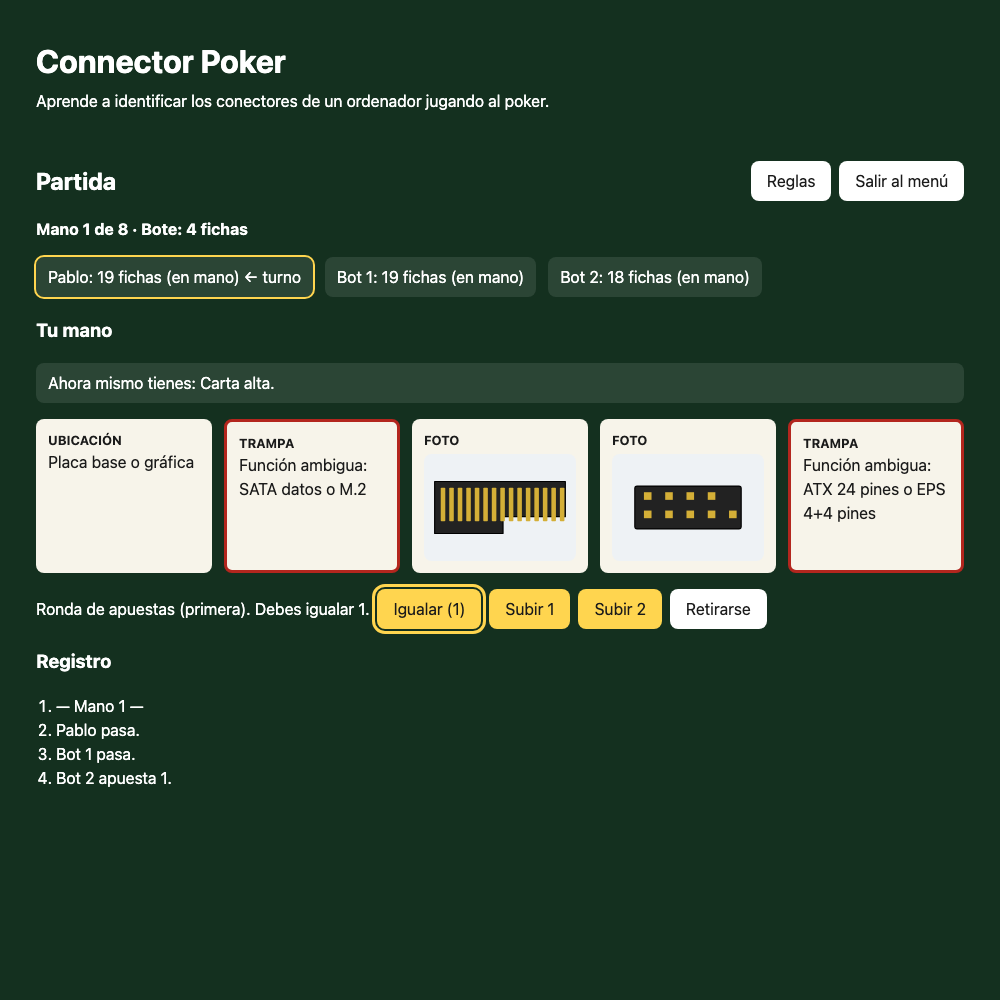
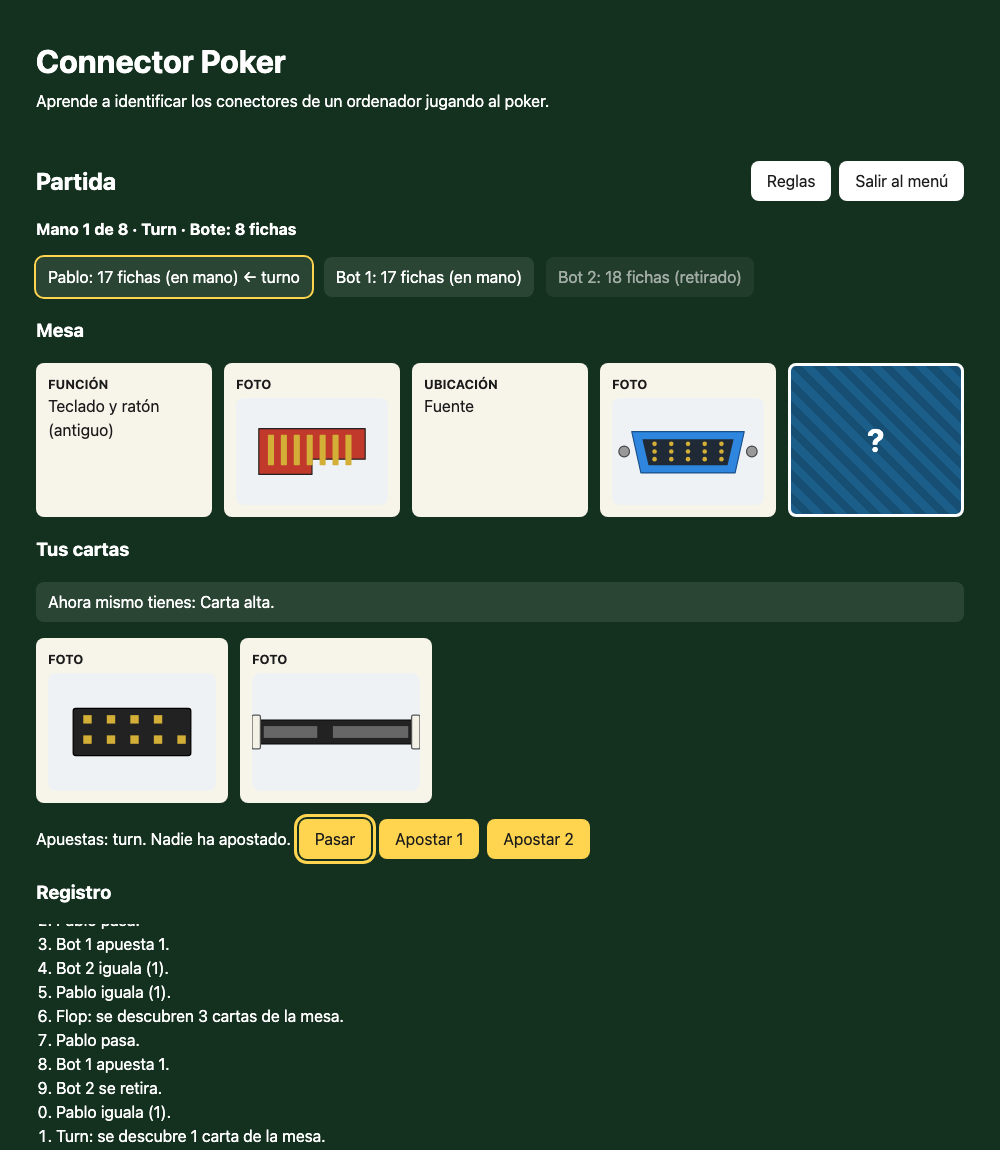
Actualiza CLAUDE.md, README y capturas a las reglas de Hold'em

diff --git a/README.md b/README.md
@@ -16,7 +16,7 @@
 
 ## ¿Qué es?
 
-**Connector Poker** es un juego educativo para aprender a identificar los **10 conectores internos y los 10 externos** de un ordenador: cómo se llaman, para qué sirven y dónde van. Se juega una partida de unos 10 minutos contra 2 bots.
+**Connector Poker** es un juego educativo para aprender a identificar los **10 conectores internos y los 10 externos** de un ordenador: cómo se llaman, para qué sirven y dónde van. Se juega una partida de unos 10 minutos contra 2 bots, al estilo **Texas Hold'em**.
 
 Es un proyecto en grupo del módulo **Sistemas Informáticos** (DAM, 1.º, IES La Vereda). El enunciado pedía un juego de diseño propio (Kahoot no valía) cuya mecánica obligara a **pensar**, no solo a memorizar nombres.
 
@@ -25,16 +25,21 @@ Es un proyecto en grupo del módulo **Sistemas Informáticos** (DAM, 1.º, IES L
 Cada conector tiene **4 cartas**: una **Foto**, un **Nombre**, una **Función** y una **Ubicación**. Una mano de poker se forma agrupando cartas *del mismo conector, sea cual sea su tipo*: la foto del HDMI y la función "Vídeo y audio digital" son una pareja, aunque no se parezcan en nada.
 
 <div align="center">
-<img src="docs/img/juego.png" alt="Una mano en juego con dos cartas Trampa" width="520">
+<img src="docs/img/juego.png" alt="Una mano en el turn: 4 cartas descubiertas en la mesa y 2 cartas propias" width="520">
 </div>
 
 **Una mano, paso a paso**
 
-1. Todos pagan 1 ficha de ante y reciben 5 cartas (empiezas con 20 fichas).
-2. **Primera ronda de apuestas:** pasar, apostar (1 o 2 fichas), igualar o retirarse. Una sola subida por jugador y ronda.
-3. **Cambio de cartas:** hasta 3 cartas por otras del mazo.
-4. **Segunda ronda de apuestas.**
-5. **Showdown con reto:** gana la mejor mano, pero antes de cobrar tiene que **demostrar que sabe lo que tiene**.
+Como en el Texas Hold'em, tienes **2 cartas propias** y hay **5 cartas comunes** en la mesa que se van descubriendo. Tu mano es la **mejor combinación de 5 cartas entre las 7**: una carta de la mesa puede formar pareja con una tuya, y también puede ayudar a tus rivales.
+
+1. Todos pagan 1 ficha de ante y reciben 2 cartas (empiezas con 20 fichas).
+2. **Antes del flop:** primera ronda de apuestas, solo con tus 2 cartas.
+3. **Flop:** se descubren 3 cartas de la mesa. Otra ronda de apuestas.
+4. **Turn:** se descubre la 4.ª carta. Otra ronda.
+5. **River:** se descubre la 5.ª carta. Última ronda.
+6. **Showdown con reto:** gana la mejor mano, pero antes de cobrar tiene que **demostrar que sabe lo que tiene**.
+
+En cada ronda puedes pasar, apostar (1 o 2 fichas), igualar o retirarte, con una sola subida por jugador y ronda.
 
 ### El reto del showdown: la mecánica propia del juego
 
@@ -138,10 +143,10 @@ flowchart LR
 | Módulo | Qué hace |
 |---|---|
 | [`deck.js`](js/deck.js) | Construye la baraja de 90 cartas (80 de conector, 6 Trampa, 2 comodines USB, 2 Anti-error), baraja y reparte. |
-| [`hands.js`](js/hands.js) | `evaluateHand(cartas)` calcula el rango, los desempates y qué carta especial cuenta. `compareHands` decide quién gana. |
+| [`hands.js`](js/hands.js) | `evaluateHand` calcula el rango, los desempates y qué carta especial cuenta en 5 cartas. `bestHand` encuentra la mejor mano de 5 entre las 7 disponibles. `compareHands` decide quién gana. |
 | [`showdown.js`](js/showdown.js) | Genera los retos de 3 opciones (con distractores de conectores parecidos) y los corrige. |
-| [`bots.js`](js/bots.js) | IA sencilla: apuestan según el rango de su mano, conservan sus grupos al cambiar cartas y superan el reto con probabilidad configurable (0,8). |
-| [`game.js`](js/game.js) | Máquina de estados de la partida: apuestas, cambio de cartas, showdown, fichas y fin de partida. |
+| [`bots.js`](js/bots.js) | IA sencilla: apuestan según el rango de su mejor mano y la ronda (antes del flop casi nunca se retiran) y superan el reto con probabilidad configurable (0,8). |
+| [`game.js`](js/game.js) | Máquina de estados de la partida: rondas de apuestas, mesa, showdown, fichas y fin de partida. |
 | [`ranking.js`](js/ranking.js) | Ranking de las 10 mejores partidas en `localStorage`. |
 | [`main.js`](js/main.js) | Pantallas, eventos y conexión con el DOM. Es la única parte que toca la página. |
 
@@ -149,23 +154,26 @@ Una mano es una máquina de estados:
 
 ```mermaid
 stateDiagram-v2
-    [*] --> Apuestas1
-    Apuestas1 --> Cambio: todos han actuado
-    Cambio --> Apuestas2
-    Apuestas2 --> Showdown: todos han actuado
-    Apuestas1 --> FinDeMano: todos se retiran menos uno
-    Apuestas2 --> FinDeMano: todos se retiran menos uno
+    [*] --> AntesDelFlop
+    AntesDelFlop --> Flop: todos han actuado
+    Flop --> Turn: todos han actuado
+    Turn --> River: todos han actuado
+    River --> Showdown: todos han actuado
+    AntesDelFlop --> FinDeMano: todos se retiran menos uno
+    Flop --> FinDeMano: todos se retiran menos uno
+    Turn --> FinDeMano: todos se retiran menos uno
+    River --> FinDeMano: todos se retiran menos uno
     Showdown --> Reto: le toca al humano
     Reto --> Showdown: respuesta corregida
     Showdown --> FinDeMano: alguien supera el reto o nadie lo supera
-    FinDeMano --> Apuestas1: siguiente mano
+    FinDeMano --> AntesDelFlop: siguiente mano
     FinDeMano --> [*]: 8 manos o sin fichas
 ```
 
 ### Decisiones de diseño que merece la pena contar
 
 - **Lógica pura e inyectable.** `deck.js`, `hands.js`, `showdown.js`, `bots.js` y `game.js` no tocan el DOM, y el azar (`rng`) se pasa como parámetro. Así los tests son deterministas y se pueden simular partidas enteras.
-- **Las cartas especiales se evalúan probando todas las sustituciones.** `evaluateHand` prueba cada forma legal de usar la Trampa o un comodín y se queda con la mejor. Solo la usa si **sube el rango**: no tiene sentido obligar a justificar una carta para ganar un simple desempate.
+- **La mejor mano de 7 cartas.** `bestHand` prueba las 21 combinaciones de 5 cartas, y `evaluateHand` prueba cada forma legal de usar la Trampa o un comodín. Una carta especial solo se usa si **sube el rango**: no tiene sentido obligar a justificar una carta para ganar un simple desempate. A igualdad, se prefiere la combinación que no la usa.
 - **Un grupo nunca pasa de 4 cartas.** Un comodín solo puede ocupar un tipo (Foto, Nombre, Función, Ubicación) que el conector aún no tenga.
 - **Apuestas que siempre se pueden igualar.** Ninguna apuesta supera las fichas que le quedan a otro jugador, así que no hacen falta botes laterales.
 - **Imágenes propias en SVG.** Las 20 ilustraciones están dibujadas a mano en código, con las formas anti-error reales (la L del SATA, la muesca del M.2, la esquina cortada del DisplayPort…). Pesan pocos KB y no hay problemas de licencia.
@@ -173,12 +181,12 @@ stateDiagram-v2
 
 ### Tests
 
-**62 tests** con `node --test` que cubren:
+**70 tests** con `node --test` que cubren:
 
-- Los 7 rangos, los desempates, la Trampa y los comodines.
+- Los 7 rangos, los desempates, la Trampa y los comodines, y la mejor mano entre 7 cartas.
 - La composición de la baraja.
 - Las preguntas de los retos y su corrección.
-- El motor de la partida: apuestas, retiradas, empates, penalización y bote acumulado.
+- El motor de la partida: apuestas, rondas de la mesa, retiradas, empates, penalización y bote acumulado.
 - El ranking, incluido el caso de que `localStorage` esté bloqueado.
 - Una **simulación de 200 partidas completas** que comprueba en cada paso que las fichas se conservan y que ninguna partida se queda atascada.
 

diff --git a/CLAUDE.md b/CLAUDE.md
@@ -149,14 +149,23 @@ connector-poker/
 - **6 cartas Trampa:** función ambigua que encaja con dos conectores parecidos. Pares: HDMI/DisplayPort, VGA/DVI, USB-A/USB-C, SATA datos/M.2, ATX 24/EPS 4+4, PCIe 6+2/EPS 4+4.
 - **2 comodines USB** y **2 comodines Anti-error**.
 
-### Desarrollo de una mano
+### Desarrollo de una mano (estilo Texas Hold'em)
+
+Cada jugador tiene **2 cartas propias** y hay **5 cartas comunes** en la mesa, que se descubren por rondas. La mano de cada jugador es la **mejor combinación de 5 cartas entre sus 7** (2 propias + 5 de la mesa). No hay cambio de cartas.
 
 1. Cada jugador empieza con 20 fichas y paga 1 de ante al bote.
-2. Se reparten 5 cartas a cada jugador.
-3. Primera ronda de apuestas: pasar, apostar (máximo 2 fichas), igualar o retirarse. Máximo una subida por jugador y ronda.
-4. Cada jugador puede cambiar hasta 3 cartas con el mazo.
-5. Segunda ronda de apuestas.
-6. Showdown con justificación (ver más abajo). Quien gana se lleva el bote.
+2. Se reparten 2 cartas a cada jugador.
+3. **Antes del flop:** ronda de apuestas con solo las 2 cartas propias.
+4. **Flop:** se descubren 3 cartas de la mesa. Ronda de apuestas.
+5. **Turn:** se descubre la 4.ª carta. Ronda de apuestas.
+6. **River:** se descubre la 5.ª carta. Última ronda de apuestas.
+7. Showdown con justificación (ver más abajo). Quien gana se lleva el bote.
+
+En cada ronda de apuestas: pasar, apostar (1 o 2 fichas), igualar o retirarse. Máximo una subida por jugador y ronda. Ninguna apuesta puede superar las fichas que le quedan a otro jugador (así nunca hacen falta botes laterales). Si todos se retiran menos uno, ese jugador gana el bote sin showdown ni reto.
+
+### Duración de la partida
+
+La partida dura **8 manos** como máximo, o hasta que algún jugador se queda sin fichas. El resultado (fichas finales del jugador humano) se guarda en el ranking local.
 
 ### Ranking de manos (de menor a mayor)
 
@@ -181,13 +190,14 @@ Gana el rango más alto. Si empatan, se compara el `id` del conector del grupo p
 - **Trampa:** cuenta como carta de **Función** de cualquiera de los dos conectores de su par. Para que cuente en el showdown hay que explicar la diferencia entre ambos conectores.
 - **Comodín USB:** sustituye a cualquier carta de USB-A o USB-C. Para usarlo hay que decir la velocidad de la versión de USB que se pregunte.
 - **Comodín Anti-error:** sustituye a cualquier carta de un conector interno (ids 1 a 10). Para usarlo hay que explicar su característica anti-error.
-- Máximo **una** carta especial cuenta por mano. Las demás se tratan como cartas sin valor.
+- Máximo **una** carta especial cuenta por mano, y solo si **sube el rango** de la mano (no se usa para ganar un simple desempate). Las demás se tratan como cartas sin valor. Un comodín solo puede ocupar un tipo de carta (Foto, Nombre, Función o Ubicación) que ese conector aún no tenga en la mano: un grupo nunca pasa de 4.
 
 ### Showdown con justificación
 
 Quien tiene la mejor mano debe superar un reto antes de cobrar:
 
-- **Digital:** 2 preguntas tipo test (3 opciones) sobre los conectores de su combinación. Ejemplos: "¿Cuál es la función de X?", "¿Dónde va X?". Los distractores se sacan de conectores parecidos (mismo tipo o misma ubicación). Si usa una carta especial, se pregunta la diferencia entre los dos conectores, la velocidad USB o la característica anti-error.
+- **Digital:** 2 preguntas tipo test (3 opciones) sobre los conectores de su combinación: la función y la ubicación del conector principal (en doble pareja y full, la segunda pregunta es sobre el segundo grupo). Los distractores se sacan de conectores parecidos (mismo tipo o misma ubicación). Si usa una carta especial se añade una **tercera pregunta**: la diferencia entre los dos conectores (Trampa), la velocidad USB o la característica anti-error. Hay que acertar todas.
+- **Empates:** si varios jugadores empatan en la mejor mano, cada uno hace su reto y los que lo superan se reparten el bote.
 - **Si falla:** pierde 2 fichas (van al bote) y el reto pasa al siguiente mejor jugador. Si nadie lo supera, el bote se acumula a la mano siguiente.
 - **Bots:** superan el reto con probabilidad configurable (por defecto 0,8).
 
@@ -197,7 +207,7 @@ Entregar siempre algo que funcione. No empezar una fase sin cerrar la anterior.
 
 1. **Fase 0, base:** repositorio, `index.html`, `data/conectores.json` con los 20 conectores y fotos libres con `CREDITS.md` (autor, licencia, URL).
 2. **Fase 1, lógica:** `deck.js` y `hands.js` con tests. Cubrir los 7 rangos, desempates, Trampa y comodines. Modo práctica: se reparten 5 cartas y se muestra qué mano forman.
-3. **Fase 2, partida:** `game.js`, apuestas, cambio de cartas y showdown con retos contra 2 bots.
+3. **Fase 2, partida:** `game.js`, apuestas por rondas (antes del flop, flop, turn y river) y showdown con retos contra 2 bots.
 4. **Fase 3, extras:** comodines y Trampa en la UI, retos de velocidades USB y anti-error, ranking local, ayuda con el ranking de manos.
 5. **Fase 4, pulido:** diseño responsive, accesibilidad, pruebas con compañeros, despliegue en GitHub Pages y capturas para la memoria.
 
